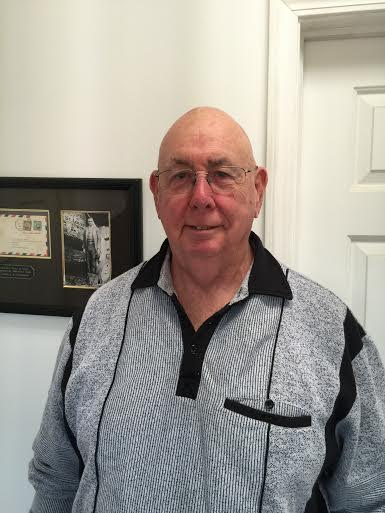
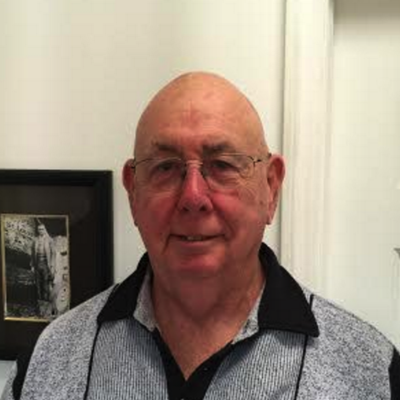
Added all board members

diff --git a/index.html b/index.html
@@ -149,7 +149,7 @@
           <div class="col-md-3 col-sm-3 team-member">
             <div class="effect effects wow fadeInUp animated">
               <div class="img">
-                <img src="images/jay-dunn.png" class="img-responsive" alt="">
+                <img src="images/jeff-banks.png" class="img-responsive" alt="">
               </div>
             </div>
             <div class="member-info wow fadeInUp animated">
@@ -162,7 +162,7 @@
           <div class="col-md-3 col-sm-3 team-member">
             <div class="effect effects wow fadeInUp animated">
               <div class="img">
-                <img src="images/jay-dunn.png" class="img-responsive" alt="">
+                <img src="images/harley-boyle.png" class="img-responsive" alt="">
               </div>
             </div>
             <div class="member-info wow fadeInUp animated">
@@ -198,10 +198,34 @@
             </div>
           </div>
 
+          <div class="col-md-3 col-sm-3 team-member">
+            <div class="effect effects wow fadeInUp animated">
+              <div class="img">
+                <img src="images/john-conover.png" class="img-responsive" alt="Lynn Alexander">
+              </div>
+            </div>
+            <div class="member-info wow fadeInUp animated">
+              <h4>John Conover</h4>
+              <h5 class="highlight">Board Member</h5>
+              <p>35 years in aviation technology and service</p>
+            </div>
+          </div>
+
+          <div class="col-md-3 col-sm-3 team-member">
+            <div class="effect effects wow fadeInUp animated">
+              <div class="img">
+                <img src="images/lynn-alexander.png" class="img-responsive" alt="Lynn Alexander">
+              </div>
+            </div>
+            <div class="member-info wow fadeInUp animated">
+              <h4>Paul Faessler</h4>
+              <h5 class="highlight">Board Member</h5>
+              <p>35 years in aviation technology and service</p>
+            </div>
+          </div>
+
         </div>
       </div>
-
-
     </div>
   </section>
 

diff --git a/css/main.css b/css/main.css
@@ -2600,6 +2600,12 @@ CUSTOM CSS
 .team-member {
     padding: 10px;
 }
+
+.team-member img {
+	max-width: 300px;
+	max-height: 300px;
+}
+
 .member-info {
     position: relative;
     margin: -50px 23px 25px;
